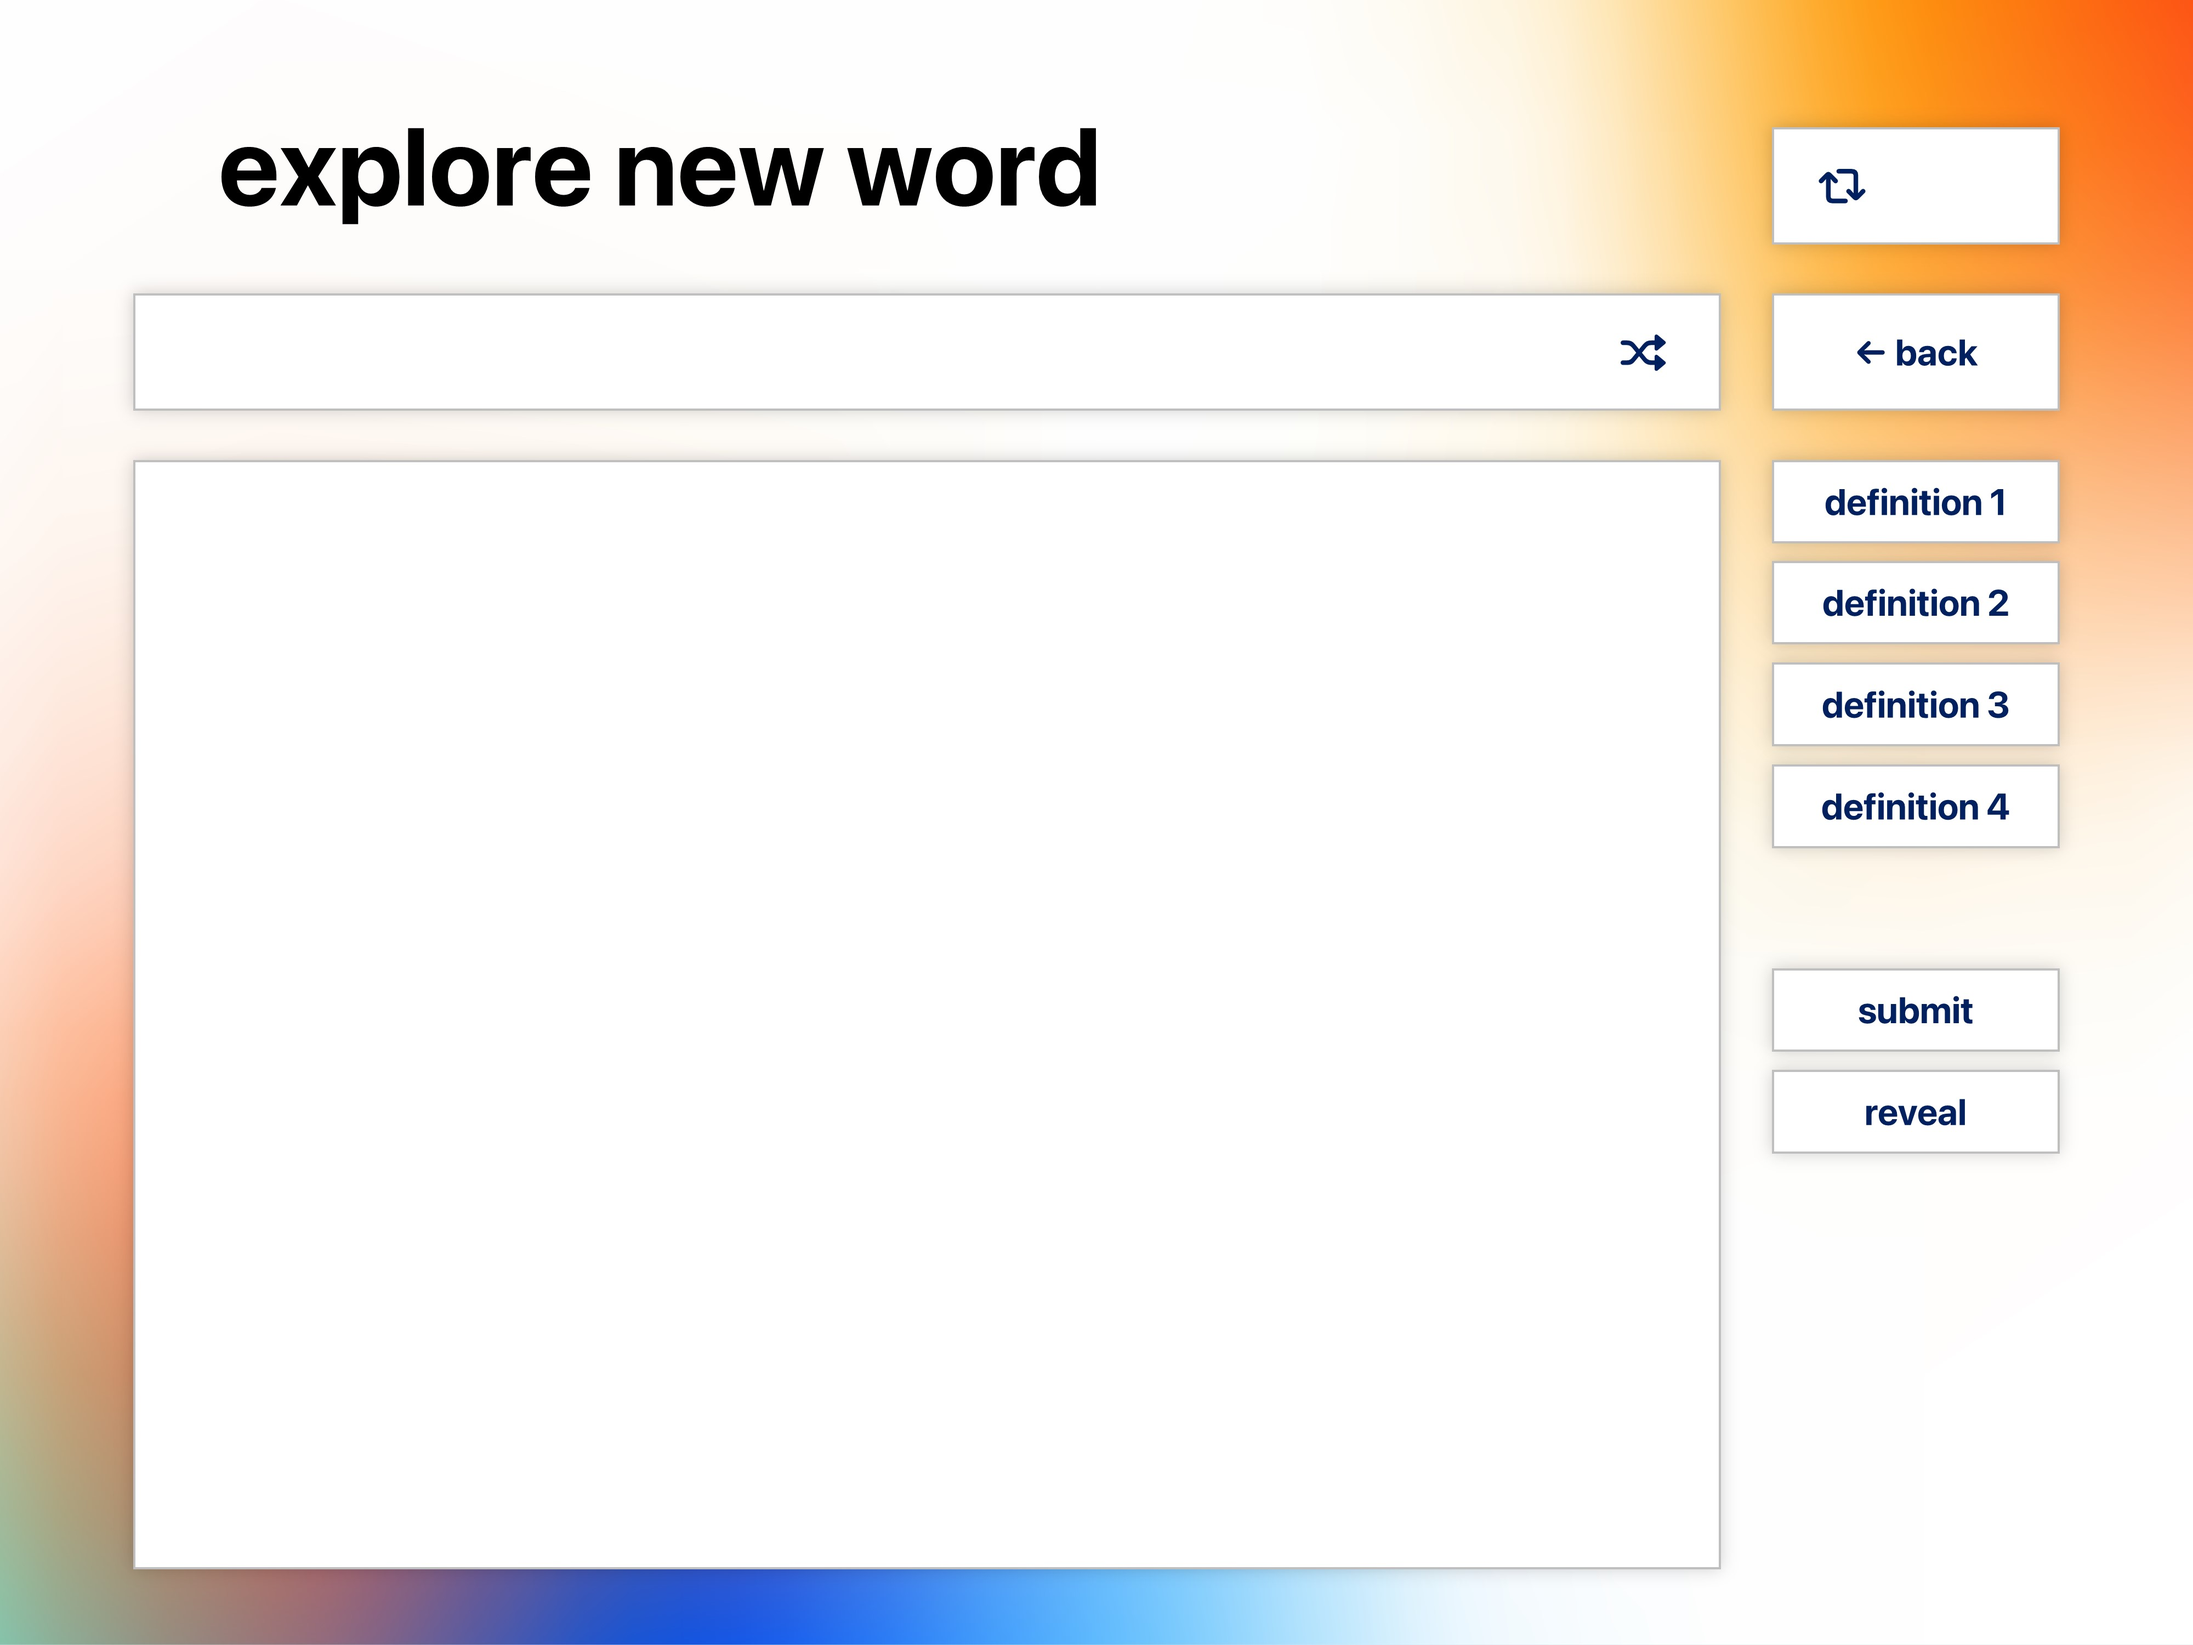
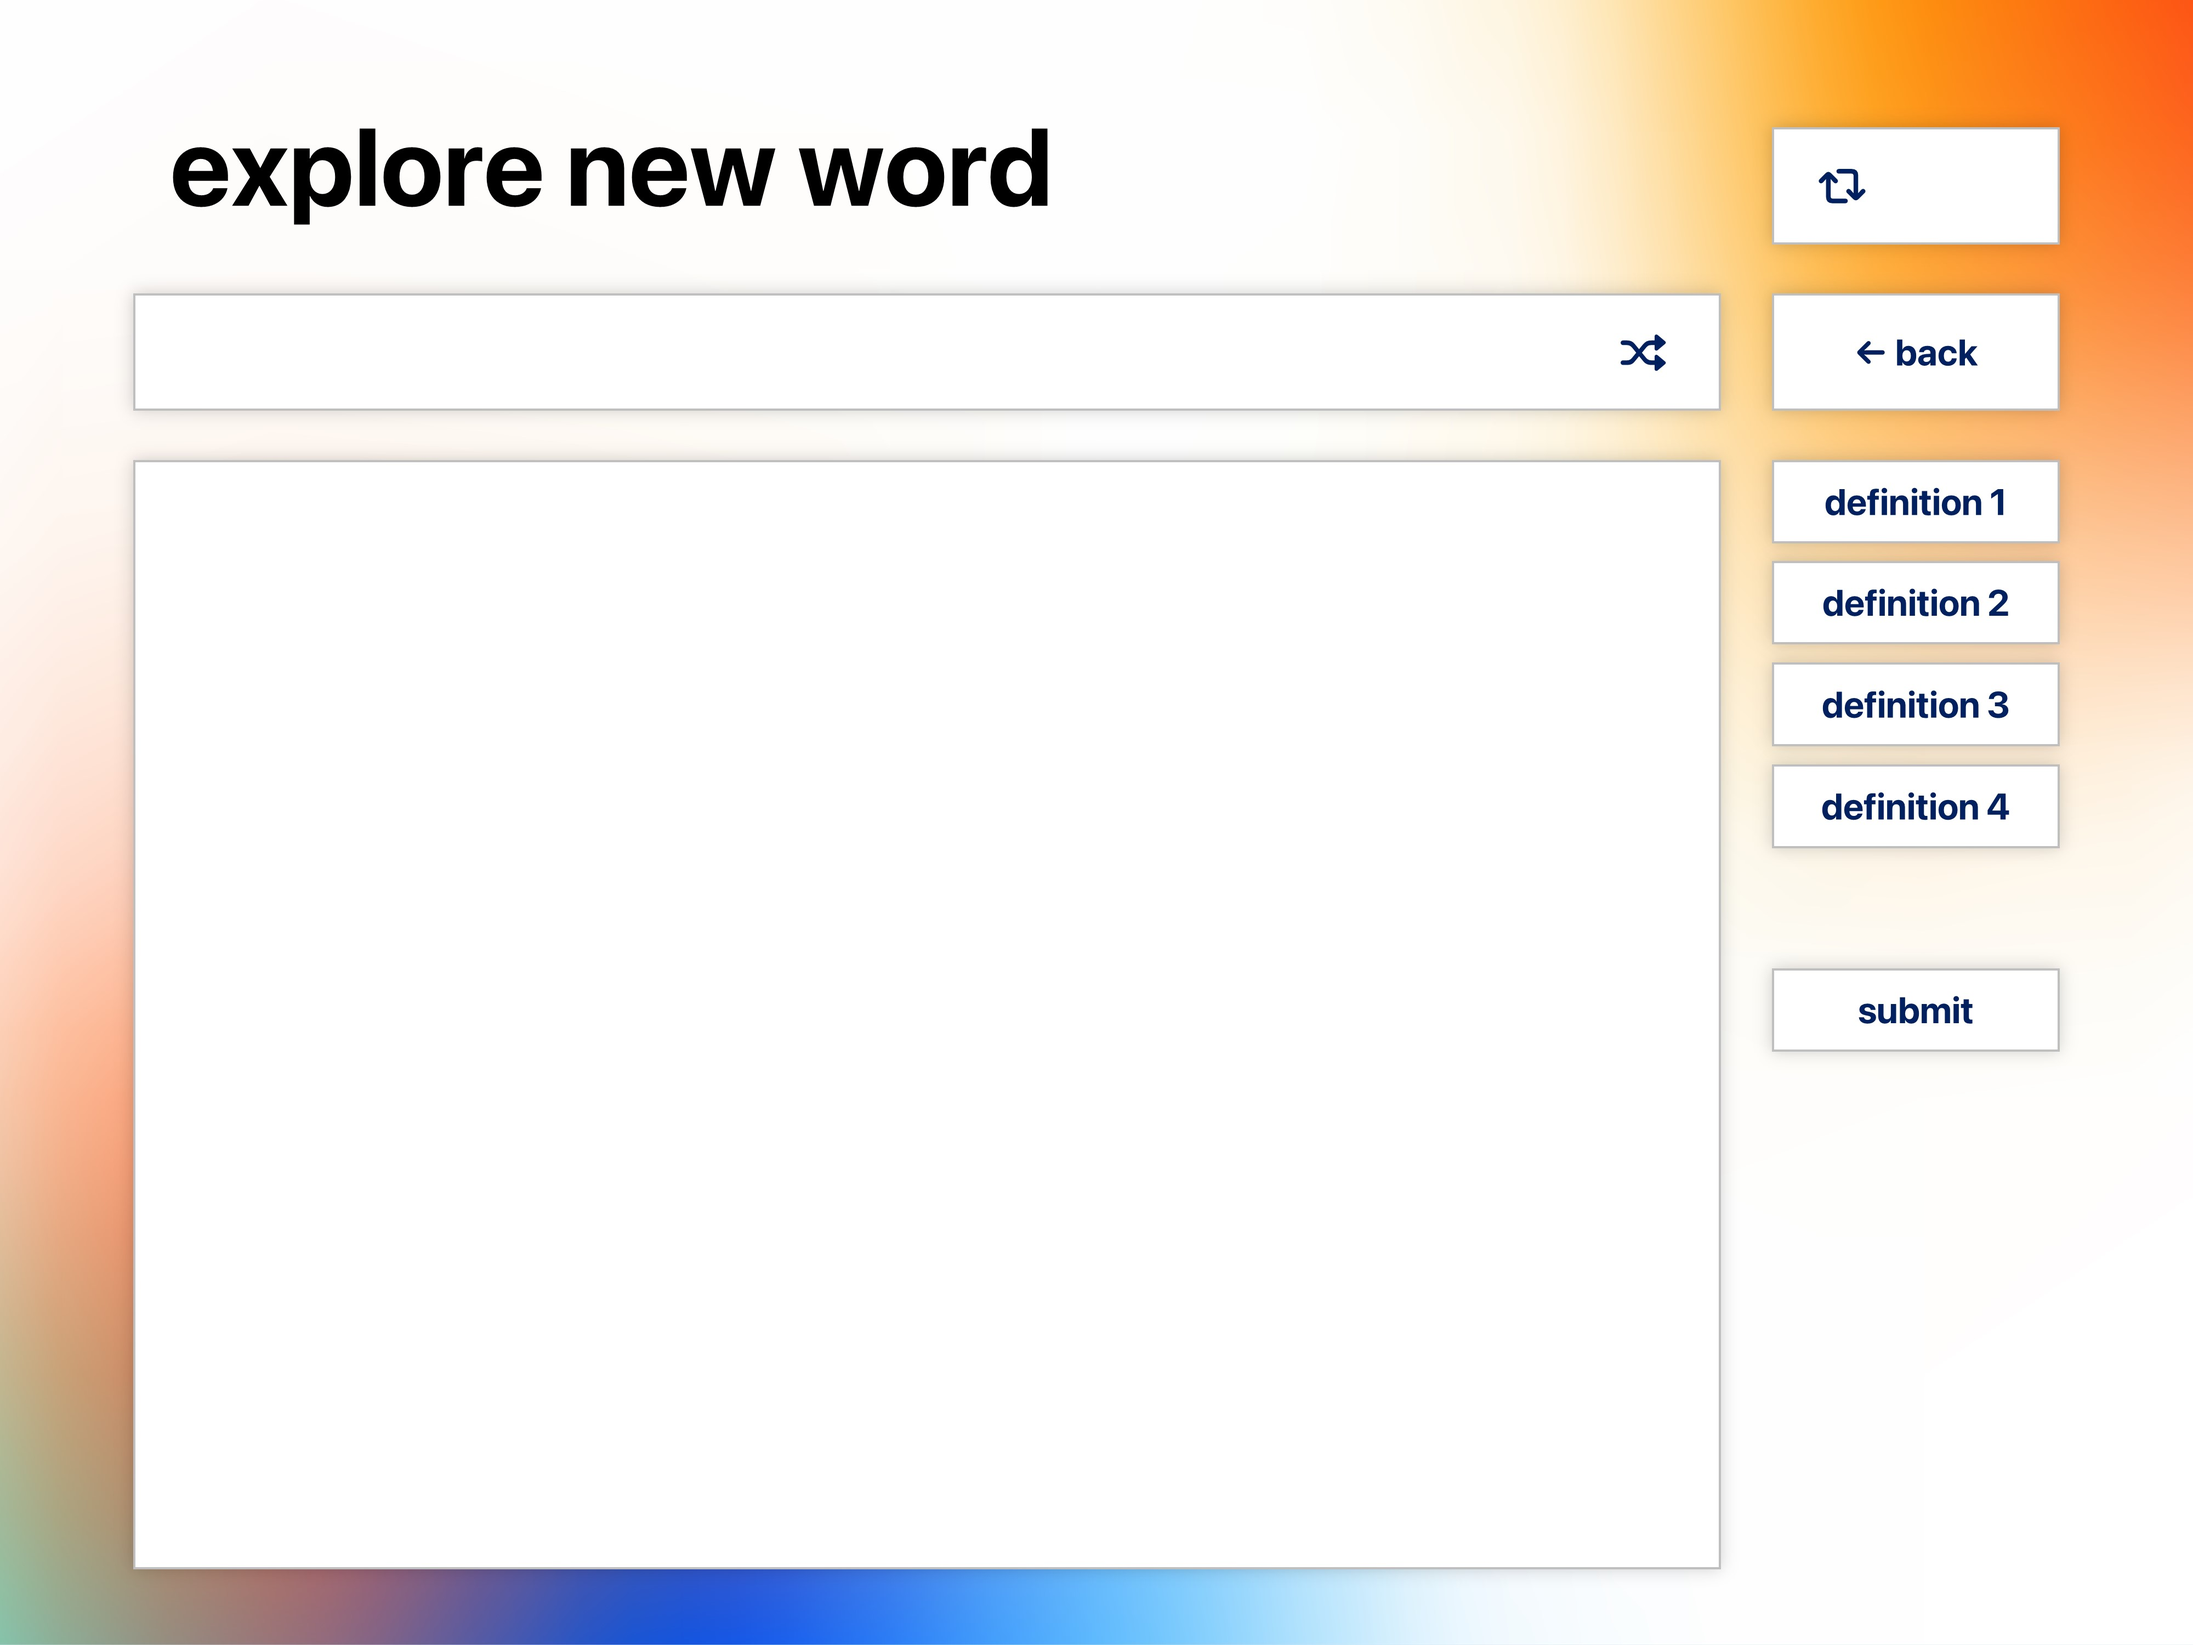
almost finish randomWord - need congratulation/oops UI

Changed region(s): [[0.0625, 0.062, 0.5, 0.155], [0.8438, 0.651, 0.9062, 0.682]]

diff --git a/ConsoleApplication1/RandomWord.cpp b/ConsoleApplication1/RandomWord.cpp
@@ -1,47 +1,180 @@
 #include "RandomWord.h"
 
-RandomWord::RandomWord(sf::Font& font, sf::Font& font2, sf::RenderWindow& window):
+RandomWord::RandomWord(sf::Font& first, sf::Font& second, sf::RenderWindow& window):
 	backButton("", { 153, 60 }, 20, sf::Color::Transparent, sf::Color::Transparent),
+	randomButton("", { 35, 35 }, 20, sf::Color::Transparent, sf::Color::Transparent),
 	button1("", { 153, 42 }, 20, sf::Color::Transparent, sf::Color::Transparent),
 	button2("", { 153, 42 }, 20, sf::Color::Transparent, sf::Color::Transparent),
 	button3("", { 153, 42 }, 20, sf::Color::Transparent, sf::Color::Transparent),
 	button4("", { 153, 42 }, 20, sf::Color::Transparent, sf::Color::Transparent),
-	isBackButtonPressed(false)
+	submitButton("", { 153, 42 }, 20, sf::Color::Transparent, sf::Color::Transparent),
+	isBackButtonPressed(false),
+	isSubmitted(false),
+	isCorrect(false),
+	currentChoice(0)
 {
-	this->font = font;
-	this->font2 = font2;
+	font = first;
+	font2 = second;
 	initBackground(window);
 	initBackButton();
+	initRandomButton();
 	initButton1();
 	initButton2();
 	initButton3();
 	initButton4();
+	initSubmitButton();
+	initWord();
 }
 
-void RandomWord::handleEvent(sf::Event& event, sf::RenderWindow& window, std::vector<WordDataEngVie>& engEngVector, std::vector<WordDataEngVie>& engVieVector, std::vector<WordDataEngVie>& vieEngVector)
+void RandomWord::handleEvent(sf::Event& event, sf::RenderWindow& window, int& id, std::vector<WordDataEngVie>& engEngVector, std::vector<WordDataEngVie>& engVieVector, std::vector<WordDataEngVie>& vieEngVector)
 {
 	if (event.type == sf::Event::MouseButtonPressed)
 		if (backButton.isMouseOver(window))
 			isBackButtonPressed = true;
+		else if (randomButton.isMouseOver(window)) {
+			if (id == 0) {
+				getRandom(engEngVector);
+				isSubmitted = false;
+			}
+			else if (id == 1) {
+				getRandom(engVieVector);
+				isSubmitted = false;
+			}
+			else if (id == 2) {
+				getRandom(vieEngVector);
+				isSubmitted = false;
+			}
+			else {
+				keyword = "this mode does not support emojis, please choose another mode";
+			}
+		}
+		else if (button1.isMouseOver(window)) {
+			currentChoice = 1;
+		}
+		else if (button2.isMouseOver(window)) {
+			currentChoice = 2;
+		}
+		else if (button3.isMouseOver(window)) {
+			currentChoice = 3;
+		}
+		else if (button4.isMouseOver(window)) {
+			currentChoice = 4;
+		}
+		else if (submitButton.isMouseOver(window)) {
+			if (currentChoice == answer) {
+				isSubmitted = true;
+				isCorrect = true;
+				std::cout << "Correct\n";
+			}
+			else {
+				isSubmitted = true;
+				isCorrect = false;
+				std::cout << "Incorrect\n";
+			}
+		}
 }
 
 void RandomWord::update(sf::RenderWindow& window)
 {
 	backButton.update(window);
+	randomButton.update(window);
 	button1.update(window);
 	button2.update(window);
 	button3.update(window);
 	button4.update(window);
+	submitButton.update(window);
 }
 
 void RandomWord::render(sf::RenderWindow& window)
 {
 	window.draw(background);
 	backButton.drawTo(window);
+	randomButton.drawTo(window);
 	button1.drawTo(window);
 	button2.drawTo(window);
 	button3.drawTo(window);
 	button4.drawTo(window);
+	submitButton.drawTo(window);
+	if (currentChoice == 1)
+		displayDefinition(window, word1);
+	else if (currentChoice == 2)
+		displayDefinition(window, word2);
+	else if (currentChoice == 3)
+		displayDefinition(window, word3);
+	else if (currentChoice == 4)
+		displayDefinition(window, word4);
+	else
+	{
+		//std::cout << "1 " << keyword << std::endl << word1.def << std::endl << word2.def << std::endl;
+	}
+	displayKeyword(window);
+}
+
+void RandomWord::displayDefinition(sf::RenderWindow& window, word toDraw)
+{
+	sf::Text text;
+	text.setFont(font);
+	text.setString(toDraw.type);
+	text.setCharacterSize(40);
+	text.setFillColor(sf::Color::Black);
+	text.setPosition(100, 270);
+	window.draw(text);
+	std::vector<std::string> line;
+	while (toDraw.def.size() > 0) {
+		std::string temp = toDraw.def.substr(0, 63);
+		toDraw.def.erase(0, 63);
+		line.push_back(temp);
+	}
+	for (int i = 0; i < line.size(); i++) {
+		sf::Text text;
+		text.setFont(font);
+		text.setString(line[i]);
+		text.setCharacterSize(30);
+		text.setFillColor(sf::Color::Black);
+		text.setPosition(100, 320 + i * 40);
+		window.draw(text);
+	}
+}
+
+void RandomWord::displayKeyword(sf::RenderWindow& window)
+{
+	sf::Text text;
+	text.setFont(font2);
+	text.setString(keyword);
+	text.setCharacterSize(20);
+	text.setFillColor(sf::Color::Black);
+	text.setPosition(125, 180);
+	window.draw(text);
+}
+
+void RandomWord::getRandom(std::vector<WordDataEngVie>& root)
+{
+	int n1 = ranNum(root.size());
+	int n2 = ranNum(root.size());
+	int n3 = ranNum(root.size());
+	int n4 = ranNum(root.size());
+
+	word1.def = root[n1].defList[0].defAndExample.first;
+	word1.type = root[n1].defList[0].wordType;
+
+	word2.def = root[n2].defList[0].defAndExample.first;
+	word2.type = root[n2].defList[0].wordType;
+
+	word3.def = root[n3].defList[0].defAndExample.first;
+	word3.type = root[n3].defList[0].wordType;
+
+	word4.def = root[n4].defList[0].defAndExample.first;
+	word4.type = root[n4].defList[0].wordType;
+
+	answer = ranNum(4);
+	if (answer == 1)
+		keyword = root[n1].word;
+	else if (answer == 2)
+		keyword = root[n2].word;
+	else if (answer == 3)
+		keyword = root[n3].word;
+	else if (answer == 4)
+		keyword = root[n4].word;
 }
 
 void RandomWord::initBackground(sf::RenderWindow& window)
@@ -55,11 +188,35 @@ void RandomWord::initBackground(sf::RenderWindow& window)
 	background.setScale(scaleX, scaleY);
 }
 
+void RandomWord::initSprite()
+{
+	if (!rightTexture.loadFromFile("background/congratulation.png"))
+		std::cout << "randomWord not found!\n";
+	rightTexture.setSmooth(true);
+	right.setTexture(rightTexture);
+	right.setScale(0.5, 0.5);
+	right.setPosition(500, 500);
+
+	if (!wrongTexture.loadFromFile("background/oops.png"))
+		std::cout << "randomWord not found!\n";
+	wrongTexture.setSmooth(true);
+	wrong.setTexture(wrongTexture);
+	wrong.setScale(0.5, 0.5);
+	wrong.setPosition(500, 500);
+}
+
 void RandomWord::initBackButton()
 {
 	backButton.setFont(font);
 	backButton.setPosition({ 972, 163 });
 	backButton.setOutlineThickness(2);
+}
+
+void RandomWord::initRandomButton()
+{
+	randomButton.setFont(font);
+	randomButton.setPosition({ 882, 175 });
+	randomButton.setOutlineThickness(2);
 }
 
 void RandomWord::initButton1()
@@ -88,4 +245,24 @@ void RandomWord::initButton4()
 	button4.setFont(font);
 	button4.setPosition({ 972, 420 });
 	button4.setOutlineThickness(2);
+}
+
+void RandomWord::initSubmitButton()
+{
+	submitButton.setFont(font);
+	submitButton.setPosition({ 972, 531 });
+	submitButton.setOutlineThickness(2);
+}
+
+void RandomWord::initWord()
+{
+	word1.def = "	";
+	word1.type = "	";
+	word2.def = "	";
+	word2.type = "	";
+	word3.def = "	";
+	word3.type = "	";
+	word4.def = "	";
+	word4.type = "	";
+	keyword = "please click the shuffle icon to start...";
 }

diff --git a/ConsoleApplication1/RandomWord.h b/ConsoleApplication1/RandomWord.h
@@ -10,49 +10,67 @@
 #include "DisplayDefinition.h"
 #include "Explore.h"
 
-class word {
-public:
-	//void render(sf::RenderWindow& window, sf::Font& font);
-private:
+struct word {
 	std::string type;
 	std::string def;
 };
 
 class RandomWord {
 public:
-	RandomWord(sf::Font& font, sf::Font& font2, sf::RenderWindow& window);
-	void handleEvent(sf::Event& event, sf::RenderWindow& window, std::vector<WordDataEngVie>& engEngVector, std::vector<WordDataEngVie>& engVieVector, std::vector<WordDataEngVie>& vieEngVector);
+	RandomWord(sf::Font& first, sf::Font& second, sf::RenderWindow& window);
+	void handleEvent(sf::Event& event, sf::RenderWindow& window, int& id, std::vector<WordDataEngVie>& engEngVector, std::vector<WordDataEngVie>& engVieVector, std::vector<WordDataEngVie>& vieEngVector);
 	void update(sf::RenderWindow& window);
 	void render(sf::RenderWindow& window);
+	void displayDefinition(sf::RenderWindow& window, word toDraw);
+	void displayKeyword(sf::RenderWindow& window);
 public:
 	bool isBackButtonPressed;
-	//void getRandom(std::vector<WordDataEngVie>& engEngVector, std::vector<WordDataEngVie>& engVieVector, std::vector<WordDataEngVie>& vieEngVector);
+	void getRandom(std::vector<WordDataEngVie>& root);
 private:
 	sf::Texture backgroundTexture;
 	sf::Sprite background;
+
+	sf::Texture rightTexture;
+	sf::Sprite right;
+
+	sf::Texture wrongTexture;
+	sf::Sprite wrong;
 
 	sf::Font font;
 	sf::Font font2;
 
 	Button backButton;
+	Button randomButton;
 
 	Button button1;
 	Button button2;
 	Button button3;
 	Button button4;
 
+	Button submitButton;
+
 	word word1;
 	word word2;
 	word word3;
 	word word4;
+	std::string keyword;
 
+	int currentDataSetID;
+	int currentChoice;
+	int answer;
+	bool isSubmitted;
+	bool isCorrect;
 private:
 	void initBackground(sf::RenderWindow& window);
+	void initSprite();
 	void initBackButton();
+	void initRandomButton();
 	void initButton1();
 	void initButton2();
 	void initButton3();
 	void initButton4();
+	void initSubmitButton();
+	void initWord();
 };
 
 #endif // !RANDOMWORD_H

diff --git a/ConsoleApplication1/Application.cpp b/ConsoleApplication1/Application.cpp
@@ -541,11 +541,12 @@ void Application::explore()
 	}
 	// Start exploring
 	if (currentDataSetID == 0)
-		searchInEngEngDict(engEngVector[ranNum(engEngVector.size())].word,true);
+		searchInEngEngDict(engEngVector[ranNum(engEngVector.size())].word, true);
 	else if (currentDataSetID == 1)
 		searchInEngVieDict(engVieVector[ranNum(engVieVector.size())].word, true);
 	else if (currentDataSetID == 2)
 		searchInVieEngDict(vieEngVector[ranNum(vieEngVector.size())].word, true);
+	displayBox.drawTo(window);
 }
 
 void Application::initResetButton()
@@ -821,8 +822,9 @@ void Application::handleEvent()
 		}
 		else if (currentScreen == ScreenState::RandomWordScreen) {
 			randomWord->isBackButtonPressed = false;
-			randomWord->handleEvent(event, window, engEngVector, engVieVector, vieEngVector);
-			
+			randomWord->handleEvent(event, window, currentDataSetID, engEngVector, engVieVector, vieEngVector);
+			if (event.type == sf::Event::MouseButtonPressed && dataSetButton.isMouseOver(window))
+				changeDataSet();
 			if (randomWord->isBackButtonPressed) {
 				currentScreen = ScreenState::OptionsScreen;
 			}
